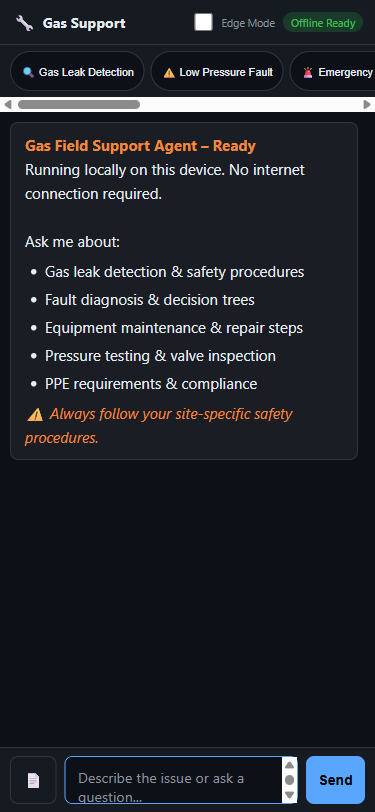
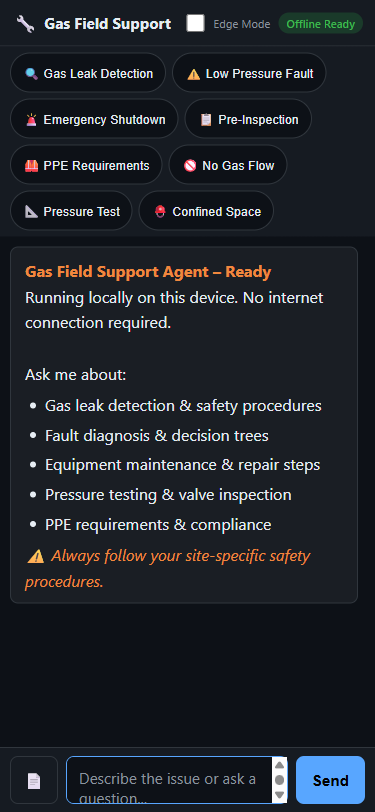
Update

diff --git a/public/index.html b/public/index.html
@@ -225,9 +225,14 @@
       padding: 8px 16px;
       display: flex;
       gap: 8px;
-      flex-wrap: wrap;
+      flex-wrap: nowrap;
+      overflow-x: auto;
+      -webkit-overflow-scrolling: touch;
+      scrollbar-width: none;
+      -ms-overflow-style: none;
       background: var(--surface);
     }
+    #quick-actions::-webkit-scrollbar { display: none; }
     .quick-btn {
       background: var(--bg);
       border: 1px solid var(--border);
@@ -237,6 +242,7 @@
       font-size: 0.82rem;
       cursor: pointer;
       white-space: nowrap;
+      flex-shrink: 0;
       min-height: 44px;
       touch-action: manipulation;
       transition: border-color 0.15s;
@@ -387,17 +393,25 @@
       header { padding: 10px 12px; }
       header h1 { font-size: 0.95rem; gap: 6px; }
       header h1 .icon { font-size: 1.2rem; }
+      header h1 .title-text { display: none; }
+      header h1::after { content: "Gas Field Support"; font-size: 0.95rem; }
       .controls { gap: 8px; }
       .toggle-label { font-size: 0.7rem; }
       .status { font-size: 0.7rem; padding: 3px 8px; }
       .message { max-width: 98%; padding: 10px 14px; }
       #quick-actions {
-        overflow-x: auto;
-        flex-wrap: nowrap;
         padding: 6px 10px;
         gap: 6px;
+        flex-wrap: wrap;
+        overflow-x: visible;
       }
-      .quick-btn { flex-shrink: 0; padding: 8px 12px; font-size: 0.78rem; min-height: 40px; }
+      .quick-btn {
+        flex-shrink: 1;
+        white-space: normal;
+        padding: 8px 12px;
+        font-size: 0.78rem;
+        min-height: 40px;
+      }
       #chat { padding: 10px; gap: 12px; }
       #input-area { padding: 8px 10px; gap: 8px; }
       #input-area textarea { padding: 10px 12px; font-size: 0.95rem; }
@@ -409,10 +423,9 @@
       .sources { font-size: 0.72rem; }
       .source-item { flex-direction: column; gap: 2px; }
     }
-    @media (max-width: 380px) {
+    @media (max-width: 340px) {
       html { font-size: 15px; }
-      header h1 .title-text { display: none; }
-      header h1::after { content: "Gas Support"; font-size: 0.95rem; }
+      header h1::after { content: "Gas Support"; font-size: 0.9rem; }
       .quick-btn { padding: 6px 10px; font-size: 0.72rem; }
       #send-btn { min-width: 56px; padding: 10px 12px; }
     }
